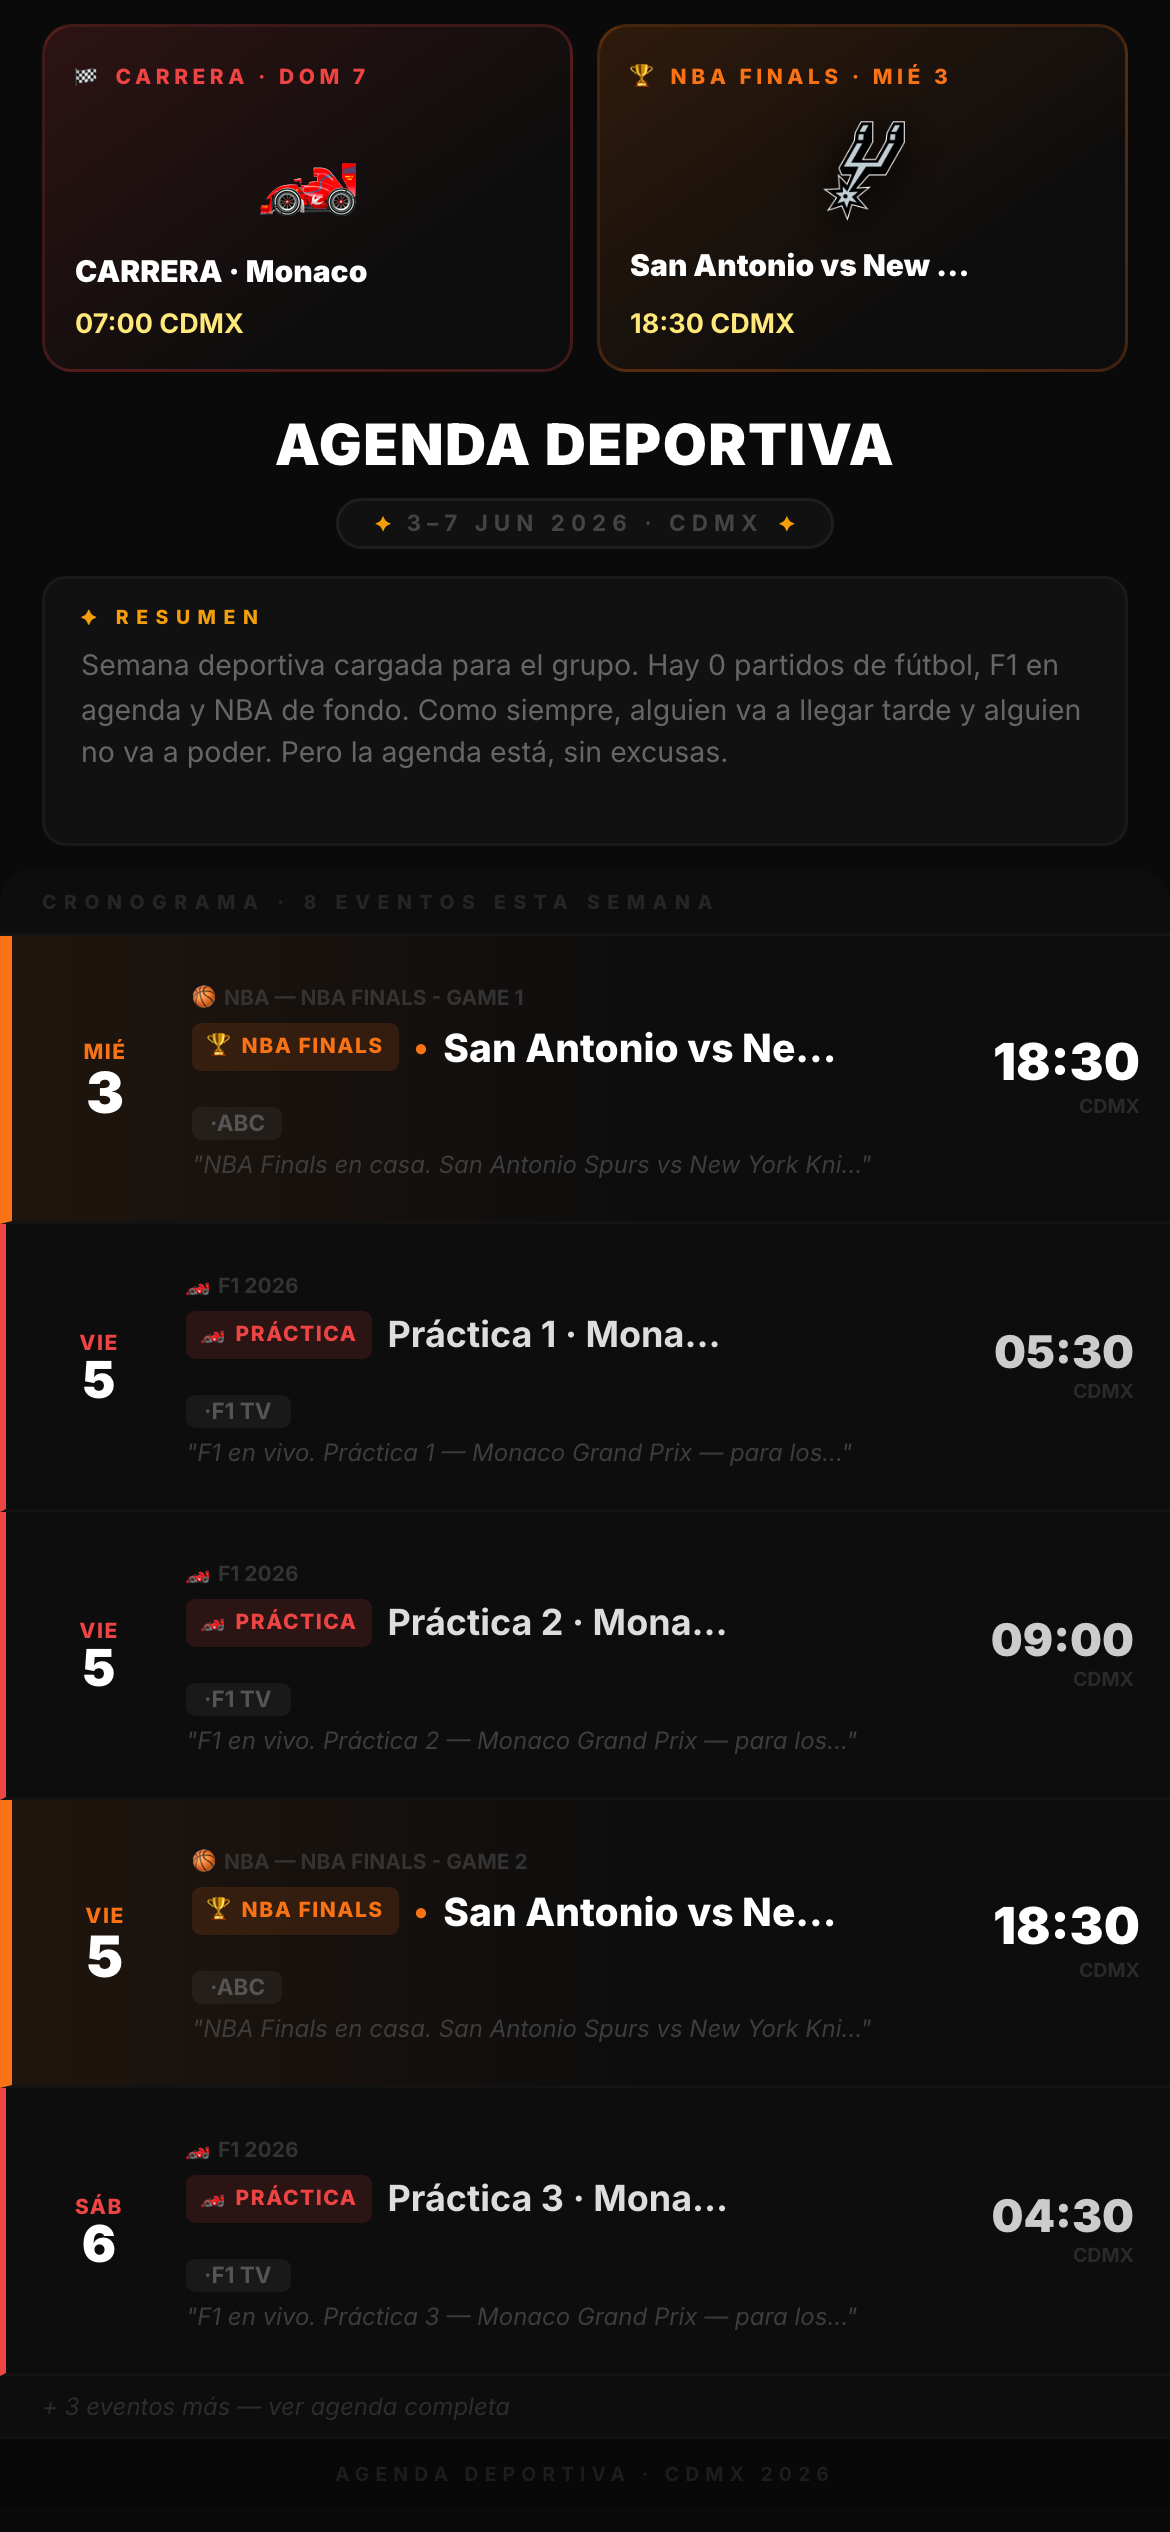
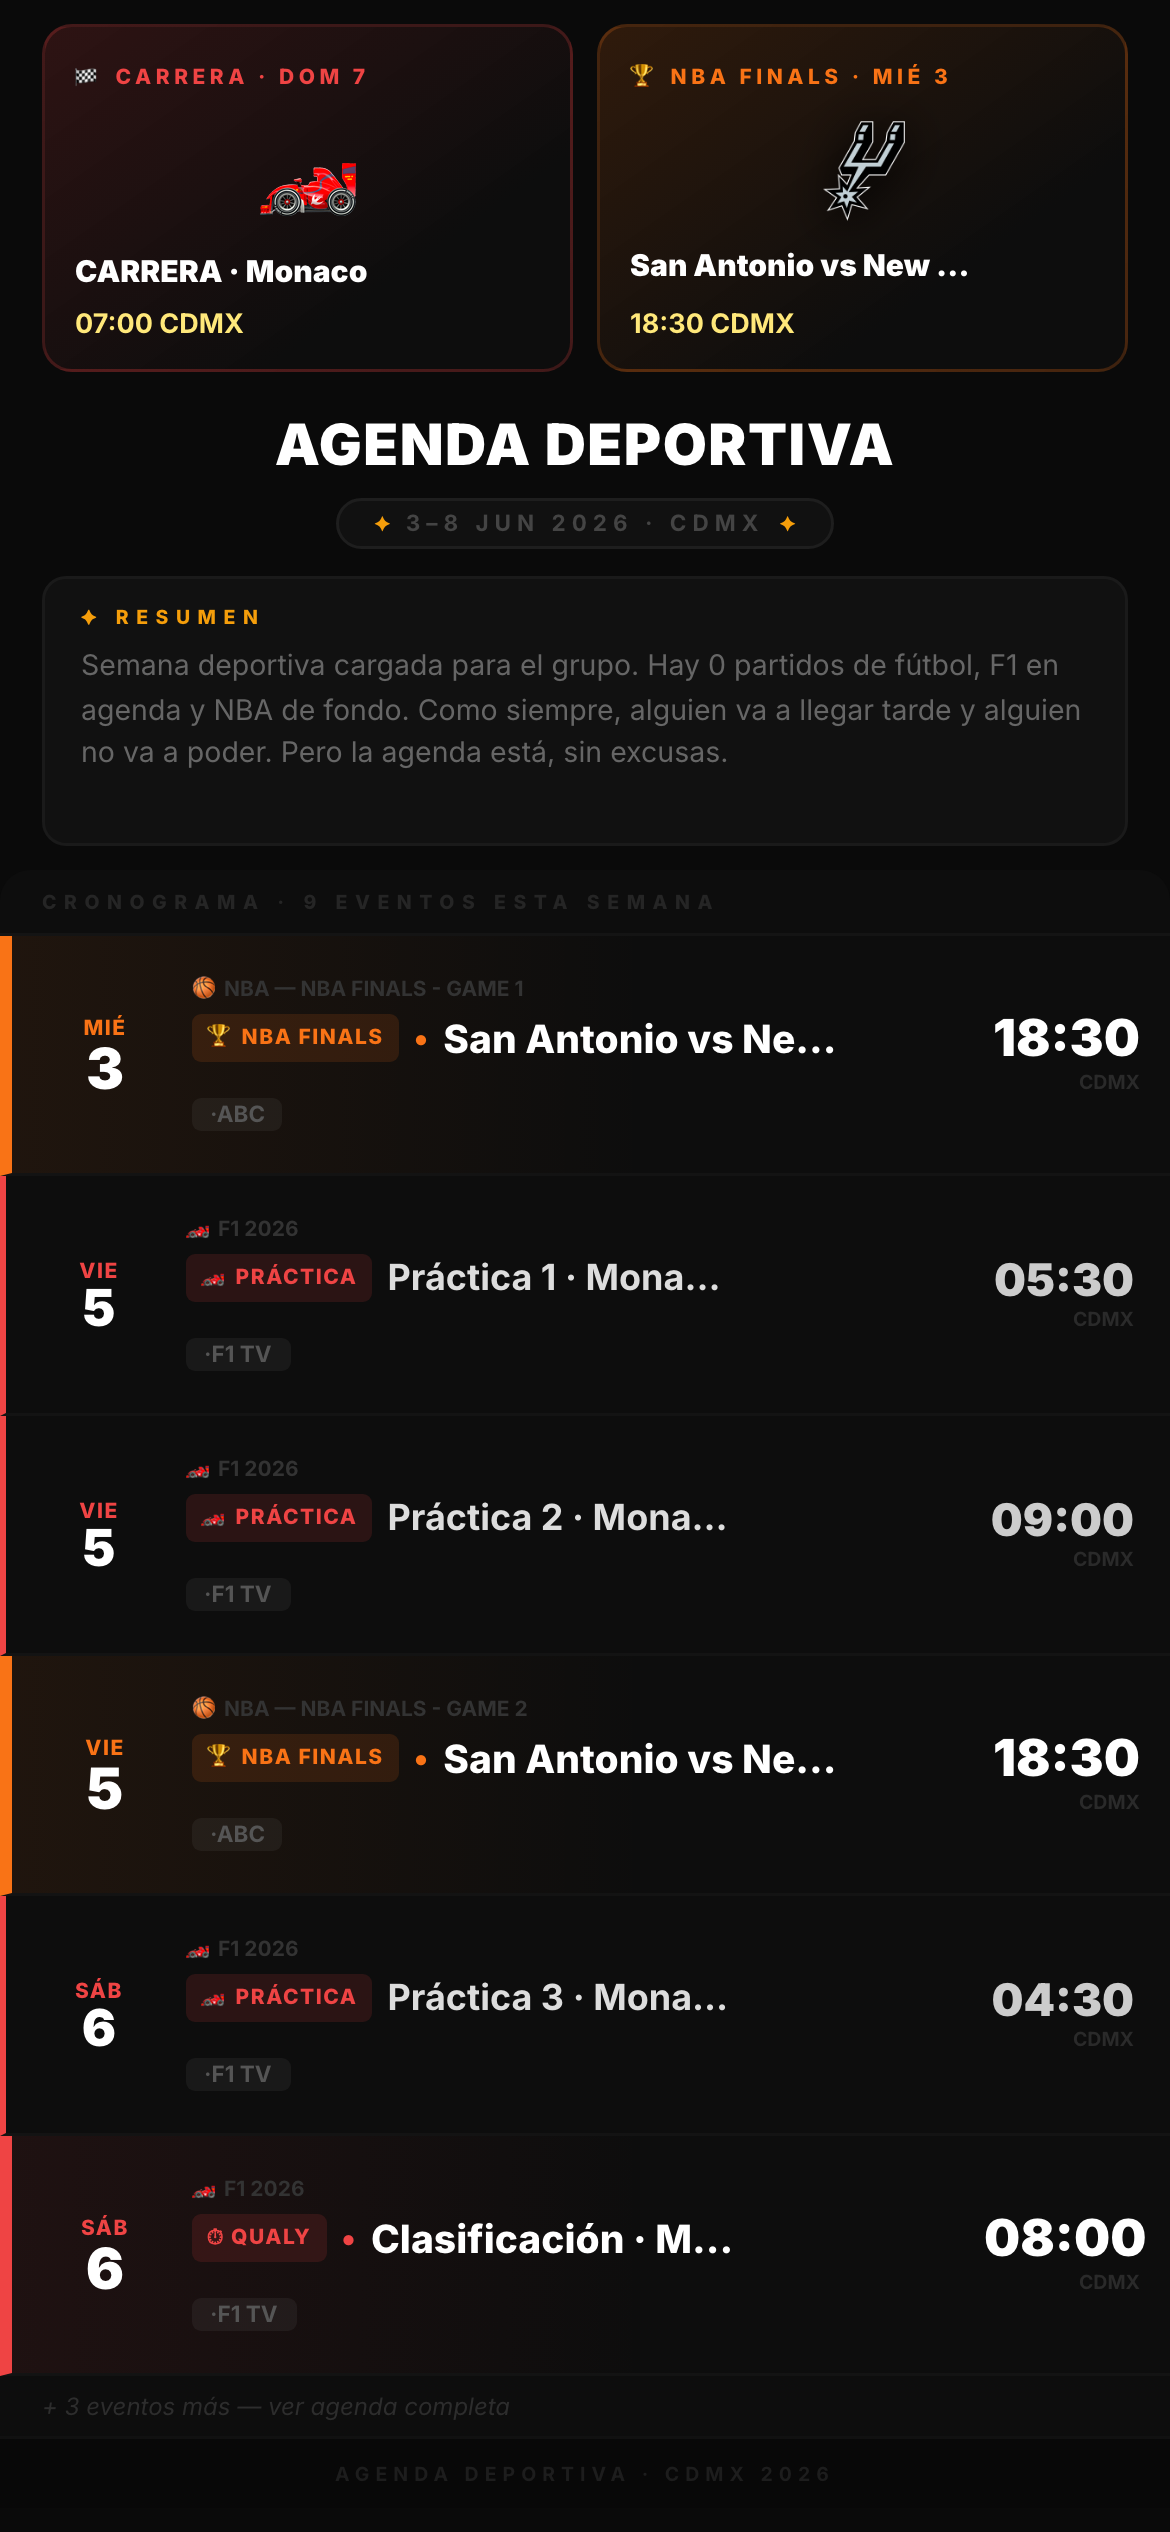
Remove relatos from card — clean single-line rows, 6 events

diff --git a/docs/card.html b/docs/card.html
@@ -40,7 +40,7 @@
       <div style="display:inline-flex;align-items:center;gap:5px;margin-top:5px;
                   background:#111;border-radius:20px;padding:3px 12px;border:1px solid #1e1e1e">
         <span style="color:#f59e0b;font-size:7px">✦</span>
-        <span style="font-size:7.5px;font-weight:700;color:#444;letter-spacing:2px">3–7 JUN 2026 · CDMX</span>
+        <span style="font-size:7.5px;font-weight:700;color:#444;letter-spacing:2px">3–8 JUN 2026 · CDMX</span>
         <span style="color:#f59e0b;font-size:7px">✦</span>
       </div>
     </div></div>
@@ -57,11 +57,11 @@
     <div style="height:22px;display:flex;align-items:center;
                 padding:0 14px;border-bottom:1px solid #141414">
       <span style="font-size:6.5px;font-weight:800;color:#252525;letter-spacing:2.5px">
-          CRONOGRAMA · 8 EVENTOS ESTA SEMANA
+          CRONOGRAMA · 9 EVENTOS ESTA SEMANA
       </span>
     </div>
     
-    <div style="height:96px;overflow:hidden;background:linear-gradient(90deg,#f9731614 0%,transparent 55%);
+    <div style="height:80px;overflow:hidden;background:linear-gradient(90deg,#f9731614 0%,transparent 55%);
                 border-left:4px solid #f97316;border-bottom:1px solid #131313;
                 display:flex;align-items:center;padding:0 14px 0 14px">
 
@@ -94,7 +94,7 @@
                        font-size:7.5px;color:#555;font-weight:600;white-space:nowrap">·ABC</span>
         </div>
 
-        <div style="margin-top:2px;font-size:8px;color:#3d3d3d;font-style:italic;white-space:nowrap;overflow:hidden">"NBA Finals en casa. San Antonio Spurs vs New York Kni…"</div>
+        
 
       </div>
 
@@ -109,7 +109,7 @@
       </div>
 
     </div>
-    <div style="height:96px;overflow:hidden;
+    <div style="height:80px;overflow:hidden;
                 border-left:2px solid #ef4444;border-bottom:1px solid #131313;
                 display:flex;align-items:center;padding:0 14px 0 14px">
 
@@ -142,7 +142,7 @@
                        font-size:7.5px;color:#555;font-weight:600;white-space:nowrap">·F1 TV</span>
         </div>
 
-        <div style="margin-top:2px;font-size:8px;color:#3d3d3d;font-style:italic;white-space:nowrap;overflow:hidden">"F1 en vivo. Práctica 1 — Monaco Grand Prix — para los…"</div>
+        
 
       </div>
 
@@ -157,7 +157,7 @@
       </div>
 
     </div>
-    <div style="height:96px;overflow:hidden;
+    <div style="height:80px;overflow:hidden;
                 border-left:2px solid #ef4444;border-bottom:1px solid #131313;
                 display:flex;align-items:center;padding:0 14px 0 14px">
 
@@ -190,7 +190,7 @@
                        font-size:7.5px;color:#555;font-weight:600;white-space:nowrap">·F1 TV</span>
         </div>
 
-        <div style="margin-top:2px;font-size:8px;color:#3d3d3d;font-style:italic;white-space:nowrap;overflow:hidden">"F1 en vivo. Práctica 2 — Monaco Grand Prix — para los…"</div>
+        
 
       </div>
 
@@ -205,7 +205,7 @@
       </div>
 
     </div>
-    <div style="height:96px;overflow:hidden;background:linear-gradient(90deg,#f9731614 0%,transparent 55%);
+    <div style="height:80px;overflow:hidden;background:linear-gradient(90deg,#f9731614 0%,transparent 55%);
                 border-left:4px solid #f97316;border-bottom:1px solid #131313;
                 display:flex;align-items:center;padding:0 14px 0 14px">
 
@@ -238,7 +238,7 @@
                        font-size:7.5px;color:#555;font-weight:600;white-space:nowrap">·ABC</span>
         </div>
 
-        <div style="margin-top:2px;font-size:8px;color:#3d3d3d;font-style:italic;white-space:nowrap;overflow:hidden">"NBA Finals en casa. San Antonio Spurs vs New York Kni…"</div>
+        
 
       </div>
 
@@ -253,7 +253,7 @@
       </div>
 
     </div>
-    <div style="height:96px;overflow:hidden;
+    <div style="height:80px;overflow:hidden;
                 border-left:2px solid #ef4444;border-bottom:1px solid #131313;
                 display:flex;align-items:center;padding:0 14px 0 14px">
 
@@ -286,7 +286,7 @@
                        font-size:7.5px;color:#555;font-weight:600;white-space:nowrap">·F1 TV</span>
         </div>
 
-        <div style="margin-top:2px;font-size:8px;color:#3d3d3d;font-style:italic;white-space:nowrap;overflow:hidden">"F1 en vivo. Práctica 3 — Monaco Grand Prix — para los…"</div>
+        
 
       </div>
 
@@ -297,6 +297,54 @@
       <div style="width:52px;flex-shrink:0;text-align:right">
         <div style="font-size:15px;font-weight:900;color:#ccc;
                     white-space:nowrap;line-height:1">04:30</div>
+        <div style="font-size:6.5px;color:#2a2a2a;margin-top:2px;font-weight:700">CDMX</div>
+      </div>
+
+    </div>
+    <div style="height:80px;overflow:hidden;background:linear-gradient(90deg,#ef444414 0%,transparent 55%);
+                border-left:4px solid #ef4444;border-bottom:1px solid #131313;
+                display:flex;align-items:center;padding:0 14px 0 14px">
+
+      <!-- Día: 34px fijo -->
+      <div style="width:34px;flex-shrink:0;margin-right:12px;text-align:center">
+        <div style="font-size:7px;font-weight:800;color:#ef4444;letter-spacing:.5px">SÁB</div>
+        <div style="font-size:19px;font-weight:900;color:#fff;line-height:1">6</div>
+      </div>
+
+      <!-- Info: 254px fijo — sin flex, sin min-width -->
+      <div style="width:254px;overflow:hidden;flex-shrink:0">
+
+        <!-- Liga: 1 línea, ya truncada en Python -->
+        <div style="font-size:7px;color:#333;font-weight:700;
+                    white-space:nowrap;margin-bottom:3px">
+          🏎 F1 2026
+        </div>
+
+        <!-- Nombre: 1 línea, flex para tag + texto -->
+        <div style="display:flex;align-items:center;margin-bottom:4px;overflow:hidden;height:16px">
+          <span style="display:inline-block;flex-shrink:0;background:#ef444422;color:#ef4444;border-radius:3px;padding:0 5px;font-size:7px;font-weight:800;letter-spacing:.5px;margin-right:5px;line-height:16px">⏱ QUALY</span>
+          <span style="color:#ef4444;font-size:8px;margin-right:5px;flex-shrink:0">●</span>
+          <span style="font-size:13px;font-weight:800;color:#fff;
+                       white-space:nowrap;line-height:1">Clasificación · M…</span>
+        </div>
+
+        <!-- Canal: 1 línea -->
+        <div style="margin-bottom:2px">
+          <span style="background:#ffffff0d;border-radius:3px;padding:1px 6px;
+                       font-size:7.5px;color:#555;font-weight:600;white-space:nowrap">·F1 TV</span>
+        </div>
+
+        
+
+      </div>
+
+      <!-- Gap -->
+      <div style="width:10px;flex-shrink:0"></div>
+
+      <!-- Hora: 52px fijo, alineada a la derecha -->
+      <div style="width:52px;flex-shrink:0;text-align:right">
+        <div style="font-size:17px;font-weight:900;color:#fff;
+                    white-space:nowrap;line-height:1">08:00</div>
         <div style="font-size:6.5px;color:#2a2a2a;margin-top:2px;font-weight:700">CDMX</div>
       </div>
 

diff --git a/docs/index.html b/docs/index.html
@@ -136,12 +136,12 @@ body {
     <div class="header">
         <h1>🏟️ Agenda <span>Deportiva</span></h1>
         <div class="subtitle">Fútbol · F1 · Tenis · NBA — Todo en horario México</div>
-        <div class="updated">Actualizado: 31/05/2026 19:41 CDMX</div>
+        <div class="updated">Actualizado: 01/06/2026 11:37 CDMX</div>
     </div>
 
     <div class="tabs">
         <button class="tab-btn active" data-tab="hoy" onclick="switchTab('hoy')">Hoy (0)</button>
-        <button class="tab-btn" data-tab="semana" onclick="switchTab('semana')">Esta semana (8)</button>
+        <button class="tab-btn" data-tab="semana" onclick="switchTab('semana')">Esta semana (9)</button>
         <button class="tab-btn" data-tab="whatsapp" onclick="switchTab('whatsapp')">📱 WhatsApp</button>
     </div>
 
@@ -294,12 +294,35 @@ body {
     </div>
         </div>
     </div>
+
+    <div class="day-section ">
+        <div class="day-header">
+            <span class="day-label">Lunes</span>
+            <span class="day-full">Lunes 8 de junio</span>
+            <span class="event-count">1 evento</span>
+        </div>
+        <div class="events-grid">
+            
+    <div class="event-card event-favorite">
+        <div class="event-header" style="border-left: 4px solid #f97316">
+            <span class="sport-tag" style="background:#f9731620; color:#f97316">🏀 NBA</span>
+            <span class="fav-badge">★ DESTACADO</span>
+        </div>
+        <div class="event-league">NBA — NBA Finals - Game 3</div>
+        <div class="matchup"><span class="team-name">New York Knicks</span><br><small style="color:#94a3b8">San Antonio Spurs</small></div>
+        <div class="event-footer">
+            <span class="event-time">🕐 18:30 (CDMX)</span>
+            <span class="event-broadcast">📺 ABC</span>
+        </div>
+    </div>
+        </div>
+    </div>
     </div>
 
     <div id="tab-whatsapp" class="tab-content">
         <div class="whatsapp-box">
             <h3>📱 Agenda del día</h3>
-            <div class="whatsapp-text" id="wa-today">🗓️ *Agenda deportiva — Domingo 31 de mayo*
+            <div class="whatsapp-text" id="wa-today">🗓️ *Agenda deportiva — Lunes 1 de junio*
 
 Sin eventos hoy 🙈
 
@@ -308,7 +331,7 @@ Sin eventos hoy 🙈
         </div>
         <div class="whatsapp-box">
             <h3>📅 Agenda de la semana</h3>
-            <div class="whatsapp-text" id="wa-week">🗓️ *Agenda deportiva — Domingo 31 de mayo*
+            <div class="whatsapp-text" id="wa-week">🗓️ *Agenda deportiva — Lunes 1 de junio*
 
 Sin eventos hoy 🙈
 
@@ -329,6 +352,9 @@ _Sábado_
 _Domingo_
   🏎️ ⭐ CARRERA — Monaco Grand Prix
   🏟️ None
+
+_Lunes_
+  🏀 ⭐ New York Knicks
 
 📅 Agenda completa: [VER ONLINE]</div>
             <button class="copy-btn" onclick="copyWhatsapp('wa-week')">📋 Copiar para WhatsApp</button>

diff --git a/card_generator.py b/card_generator.py
@@ -38,8 +38,8 @@ GAP2        = 8
 RESUMEN_H   = 90
 GAP3        = 8
 CRONO_HDR_H = 22
-ROW_H       = 96
-MAX_ROWS    = 5
+ROW_H       = 80
+MAX_ROWS    = 6
 MORE_H      = 20
 FOOTER_H    = 24
 
@@ -242,13 +242,7 @@ def _row(e, relato=""):
     time_px   = "17px"  if featured else "15px"
     time_col  = "#fff"  if featured else "#ccc"
 
-    # ── Relato ───────────────────────────────────────────────────
-    relato_html = ""
-    if relato_str:
-        relato_html = (
-            f'<div style="margin-top:2px;font-size:8px;color:#3d3d3d;font-style:italic;'
-            f'white-space:nowrap;overflow:hidden">"{relato_str}"</div>'
-        )
+    relato_html = ""  # relatos van en el texto WhatsApp, no en la imagen
 
     return f"""
     <div style="height:{ROW_H}px;overflow:hidden;{bg}